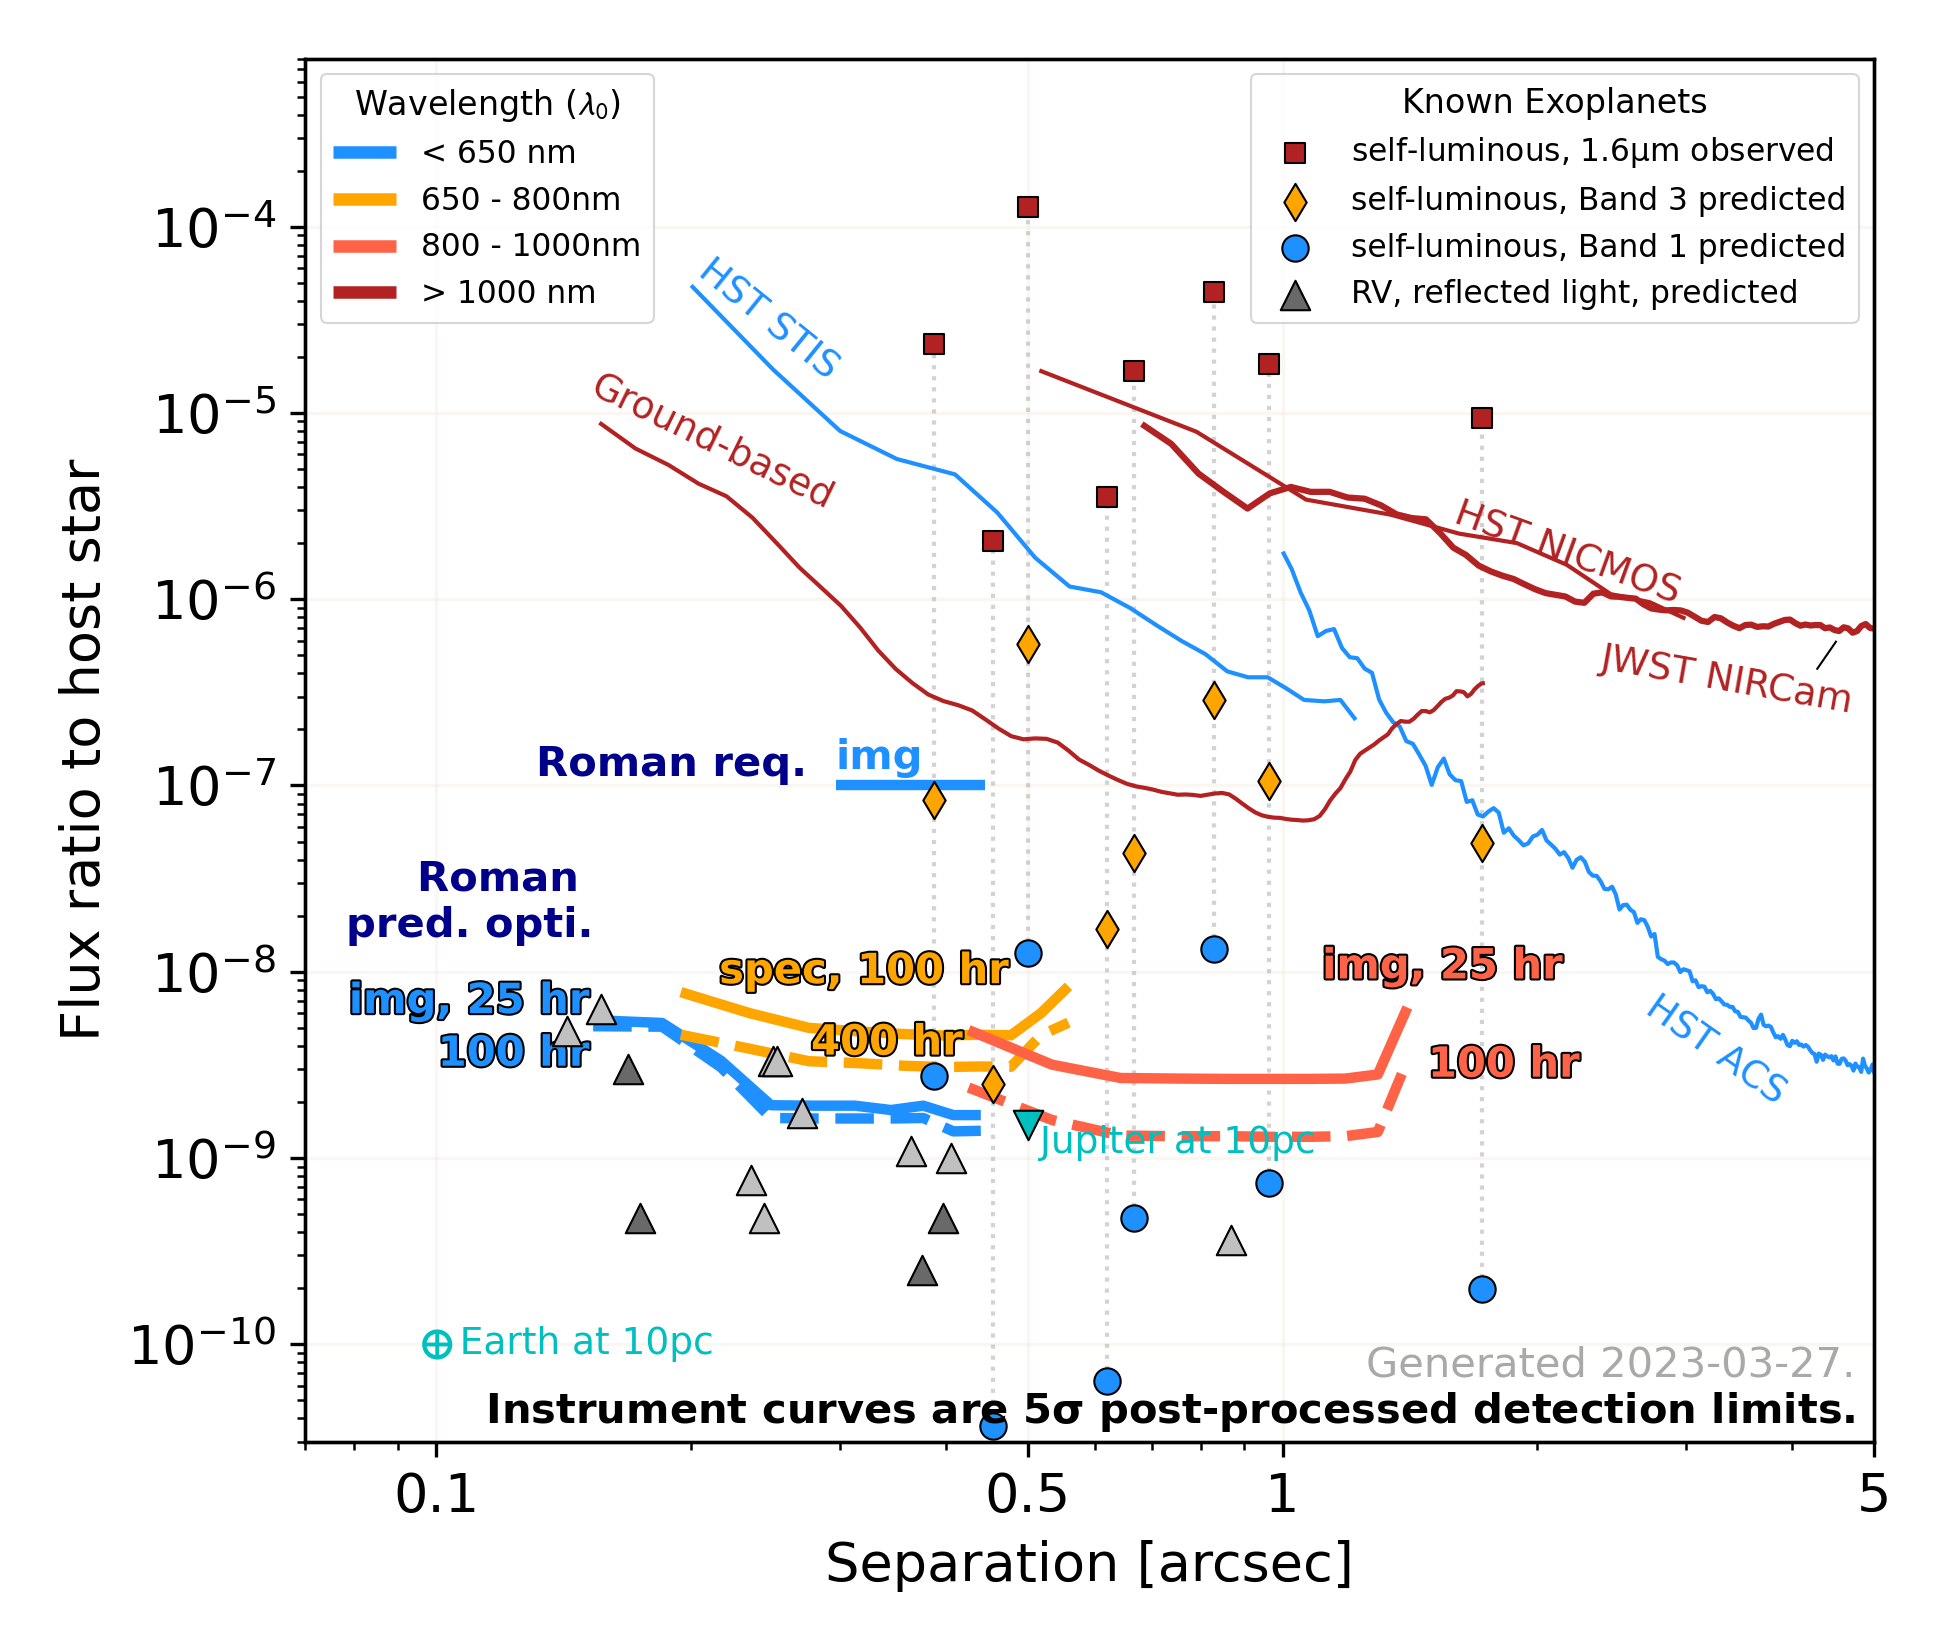
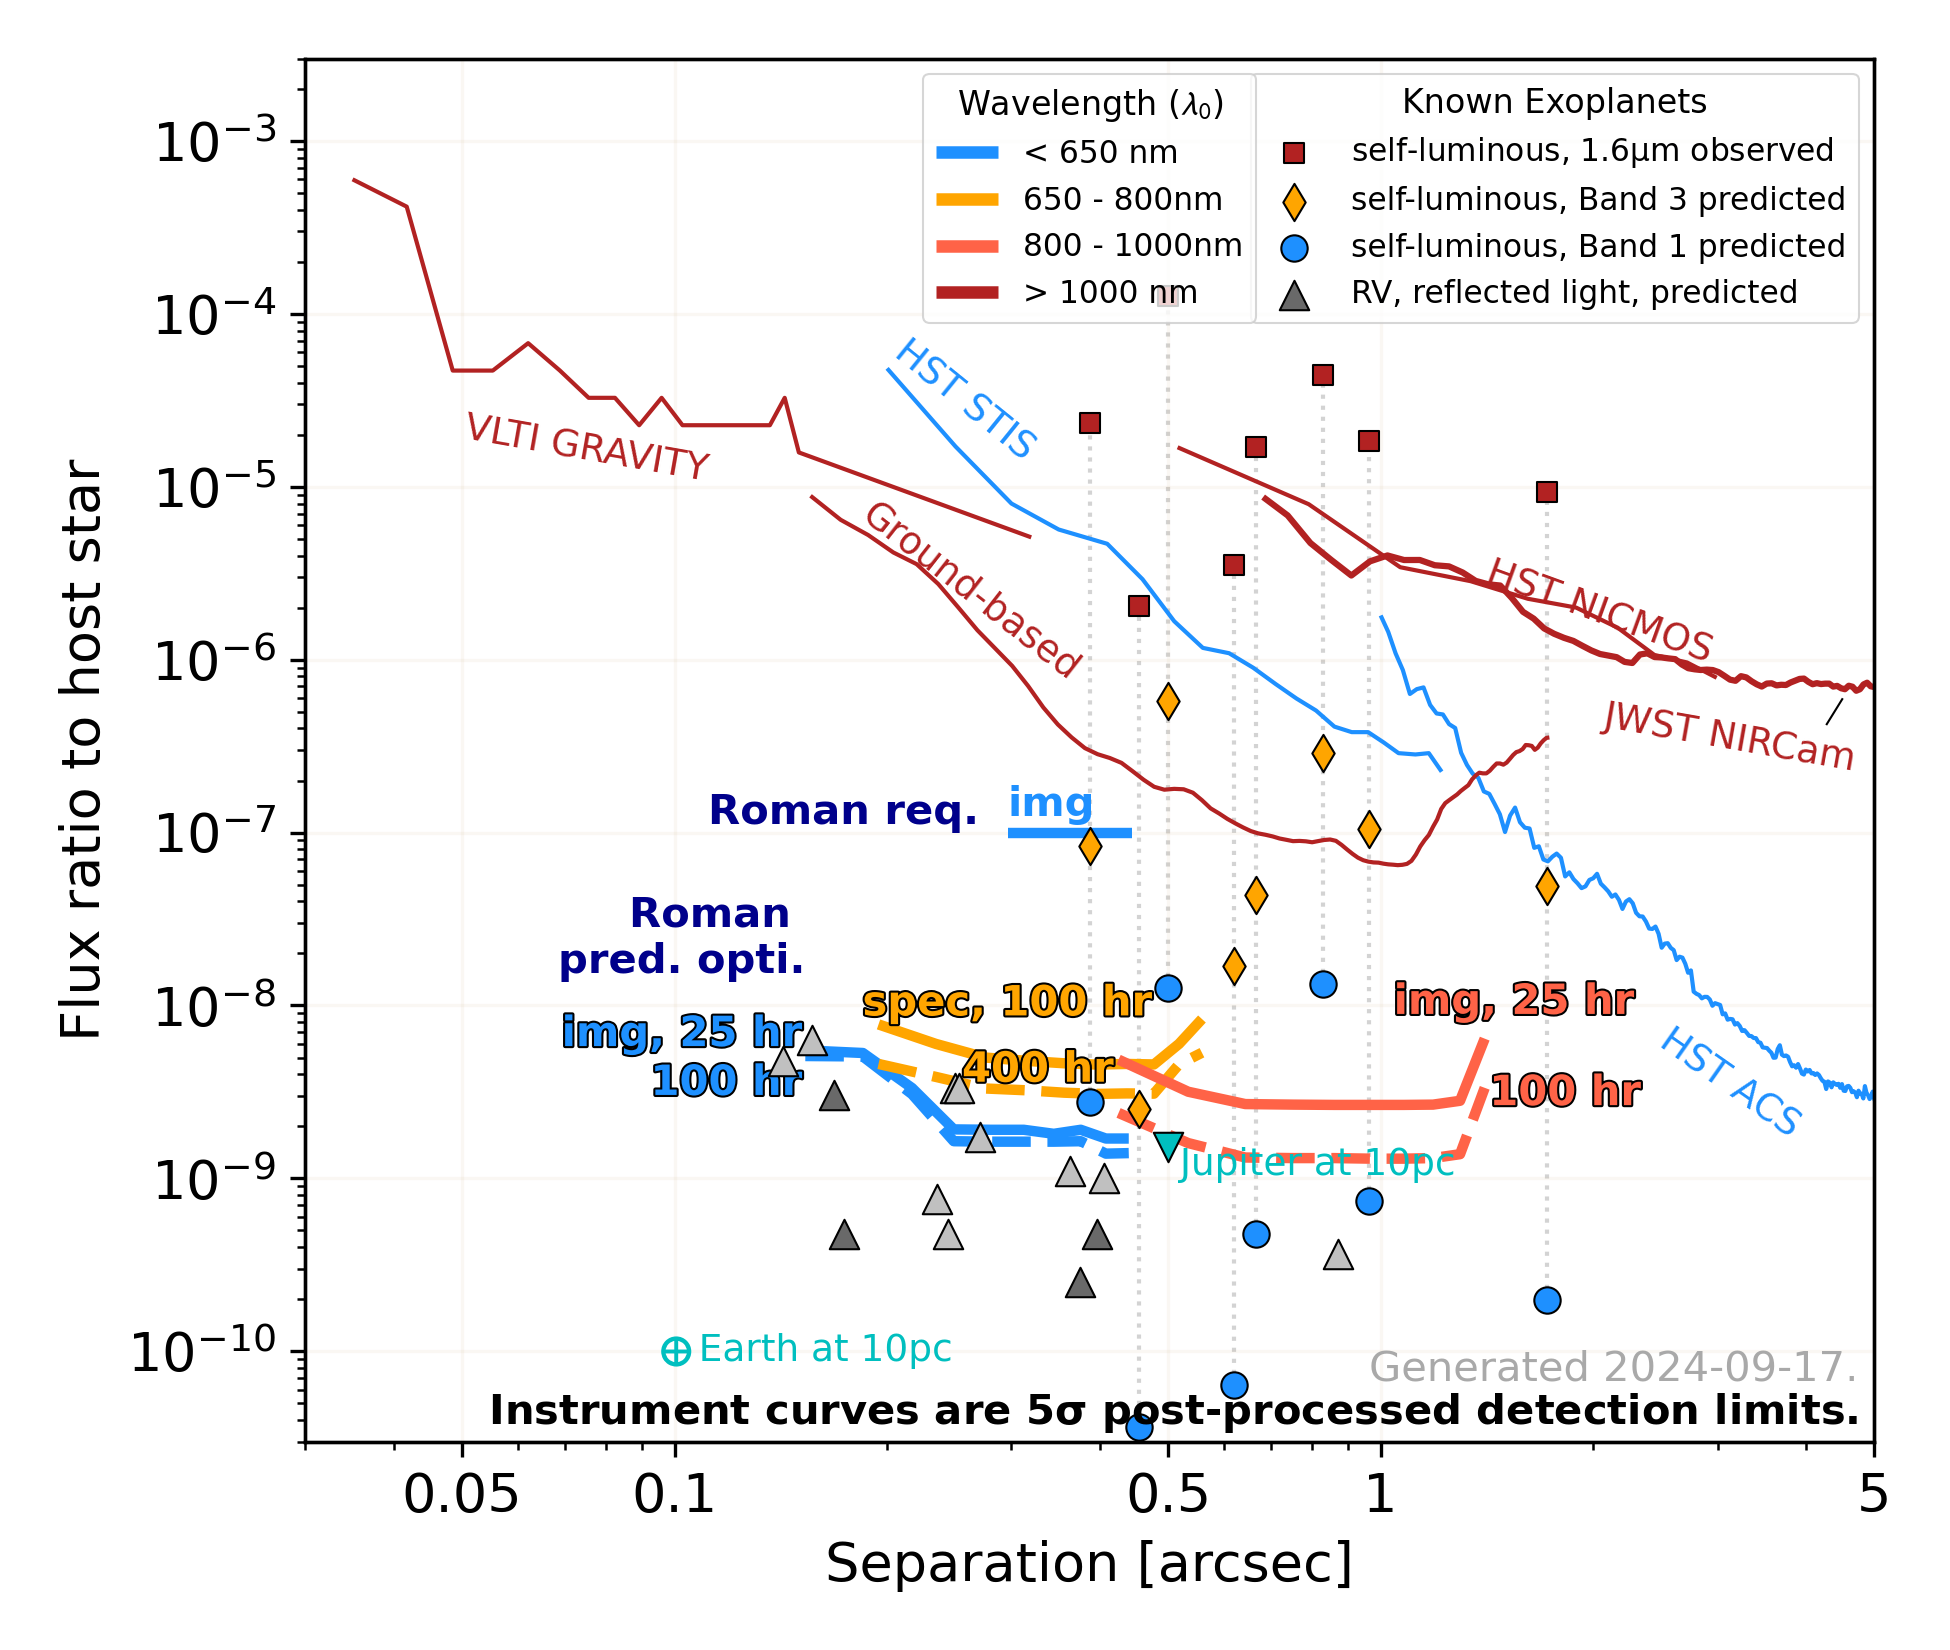
GRAVITY updates: remove axis override, update auto legend location, update doc figure

diff --git a/plot_flux_ratio.py b/plot_flux_ratio.py
@@ -797,9 +797,6 @@ if cfg['timestamp'] is True:
     ax1.text(0.95*xlim[1], ylim[0]*2, "Generated "+str(date.today()) + '.', \
         horizontalalignment='right',verticalalignment='bottom',fontsize=ccfs+1, color='darkgray')
         
-if cfg['GRAVITY'] is True:
-    xlim[0] = 0.04
-    ylim[1] = 3e-3
 
 first_legend = ax1.legend(fontsize=cfg['legend_font_size'], loc='upper right', \
     title='Known Exoplanets')
@@ -817,7 +814,11 @@ ax1.set_xlim(xlim)
 ax1.xaxis.set_major_formatter(ticker.FormatStrFormatter('%.1g'))
 
 if cfg['color_by_lambda'].lower() != 'none':
-    second_legend = ax2.legend(loc='upper left', fontsize=cfg['legend_font_size'], title='Wavelength ($\lambda_0$)')
+    if cfg['GRAVITY']:
+        thisloc = 'upper center'
+    else:
+        thisloc = 'upper left'
+    second_legend = ax2.legend(loc=thisloc, fontsize=cfg['legend_font_size'], title='Wavelength ($\lambda_0$)')
     second_legend.get_title().set_fontsize(8)
     ax2.set_ylim(ylim)
     ax2.set_xlim(xlim)
